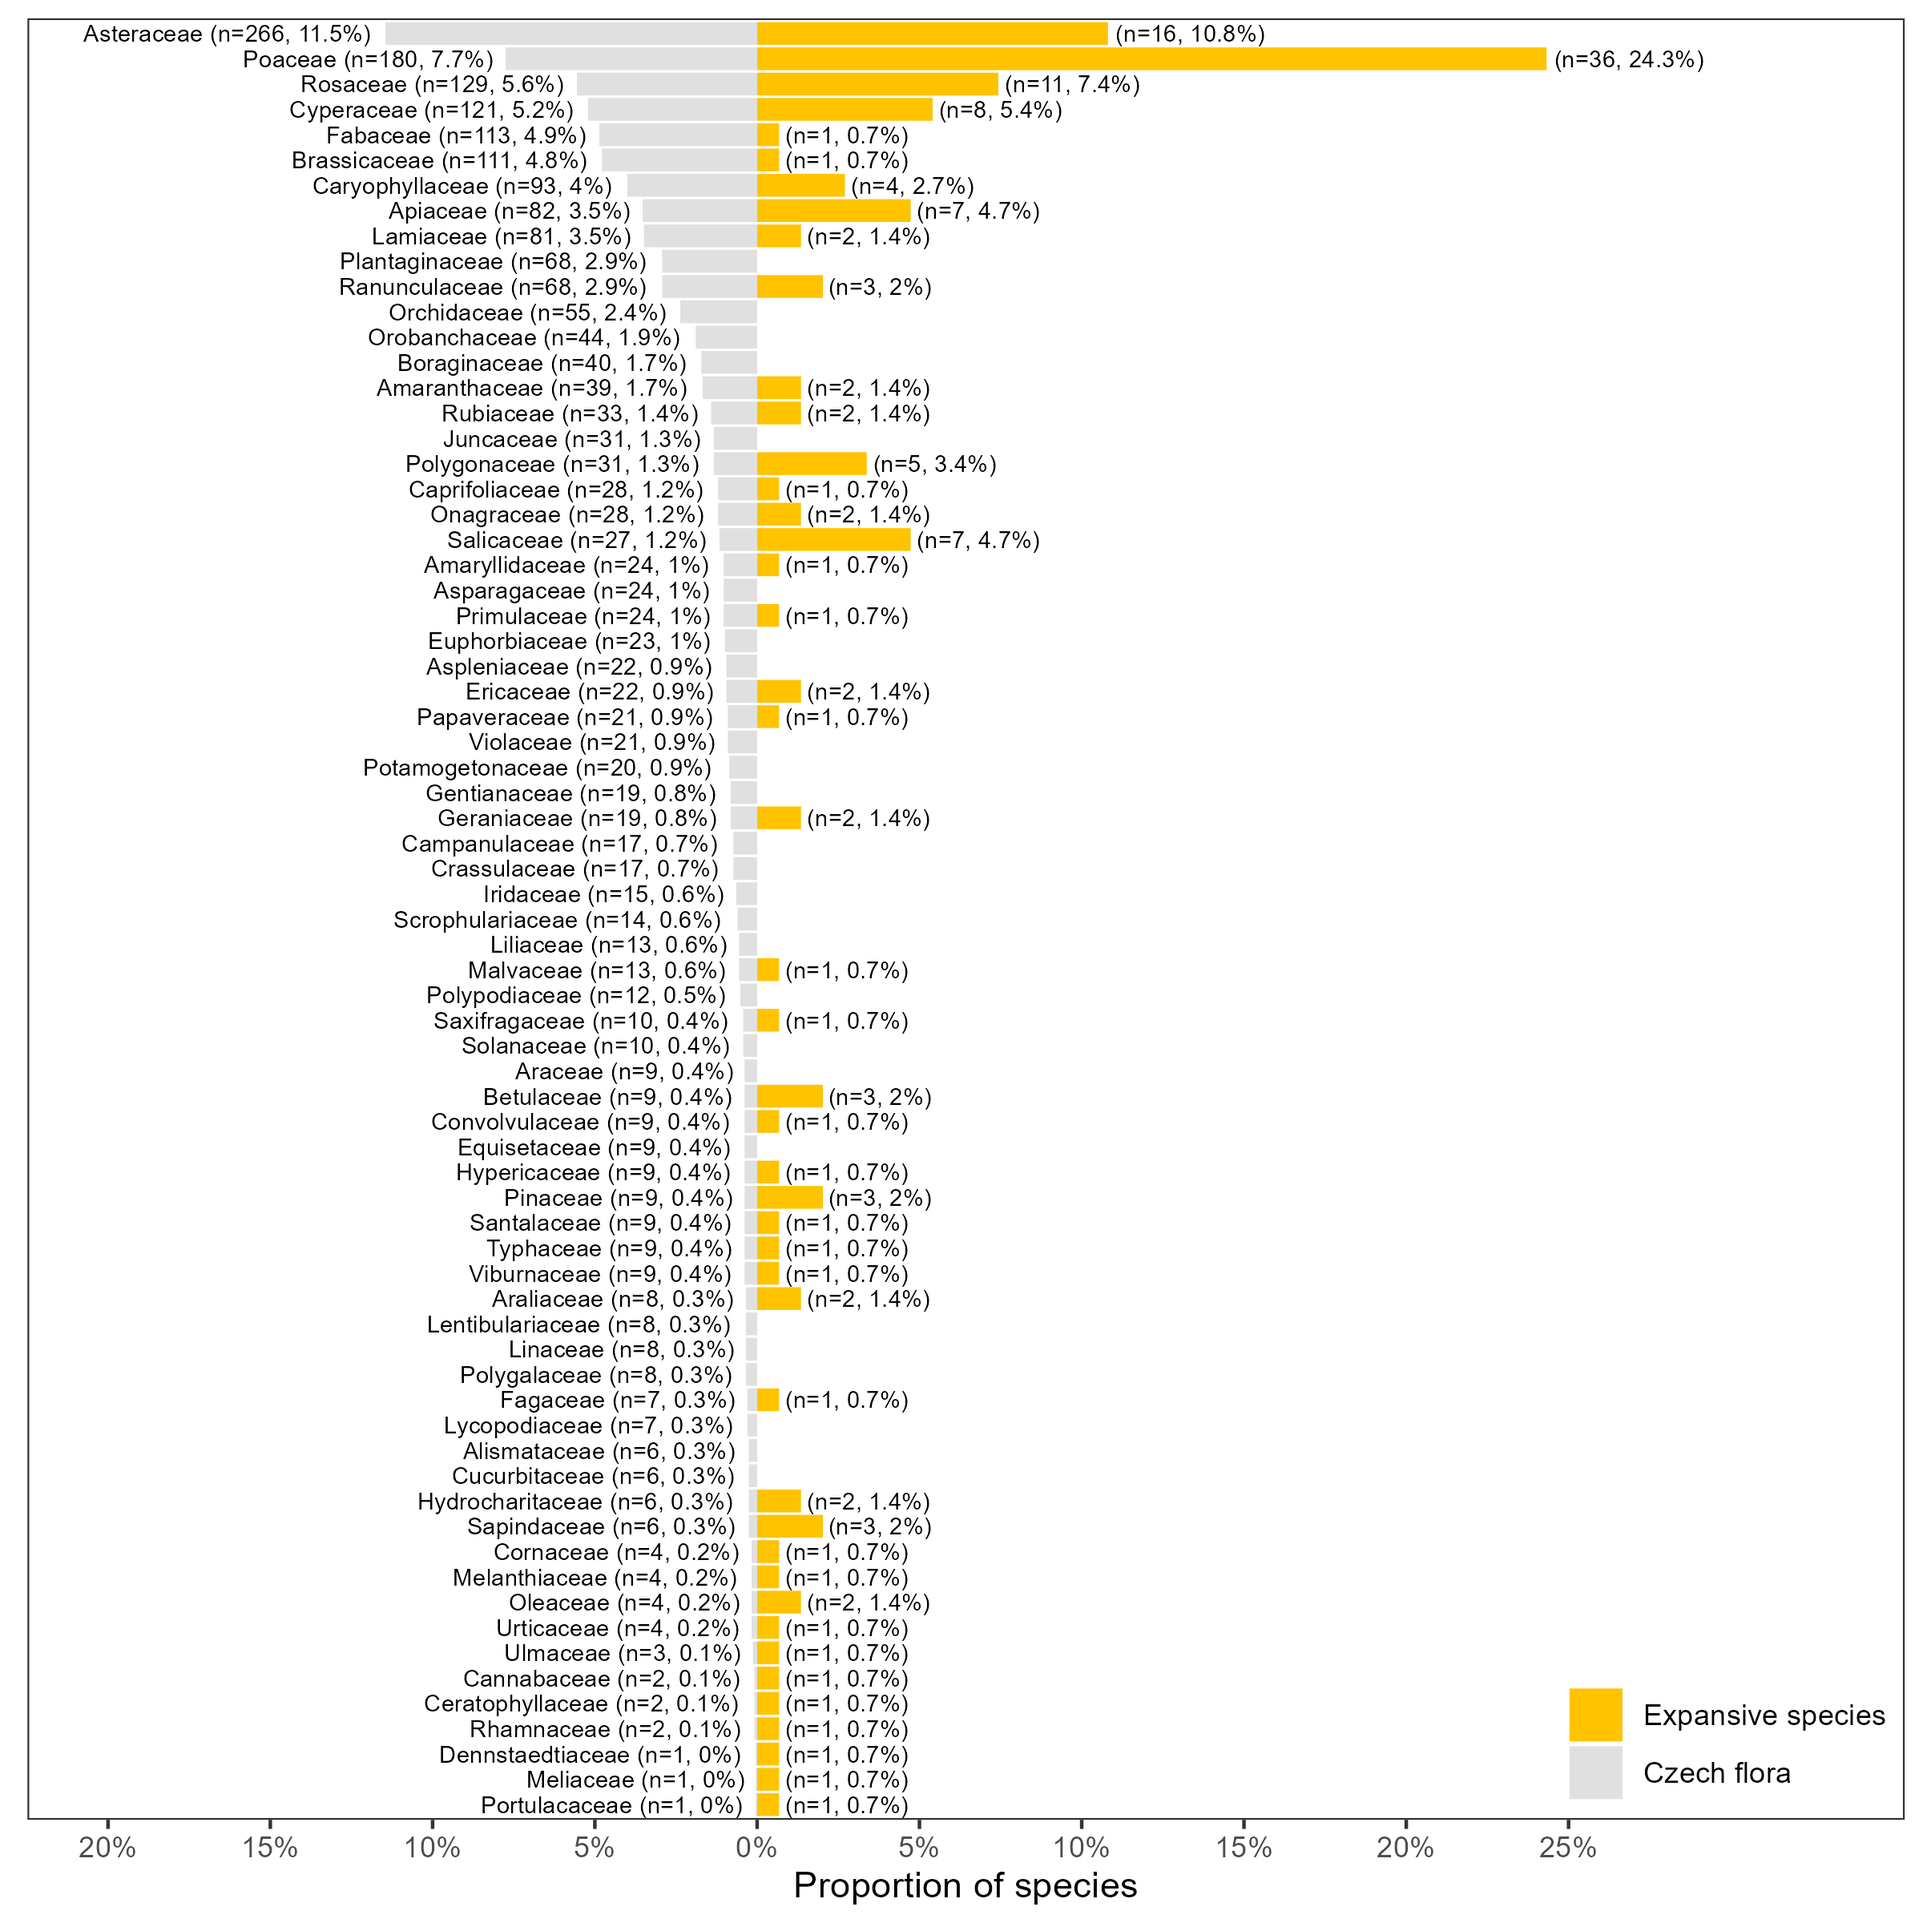
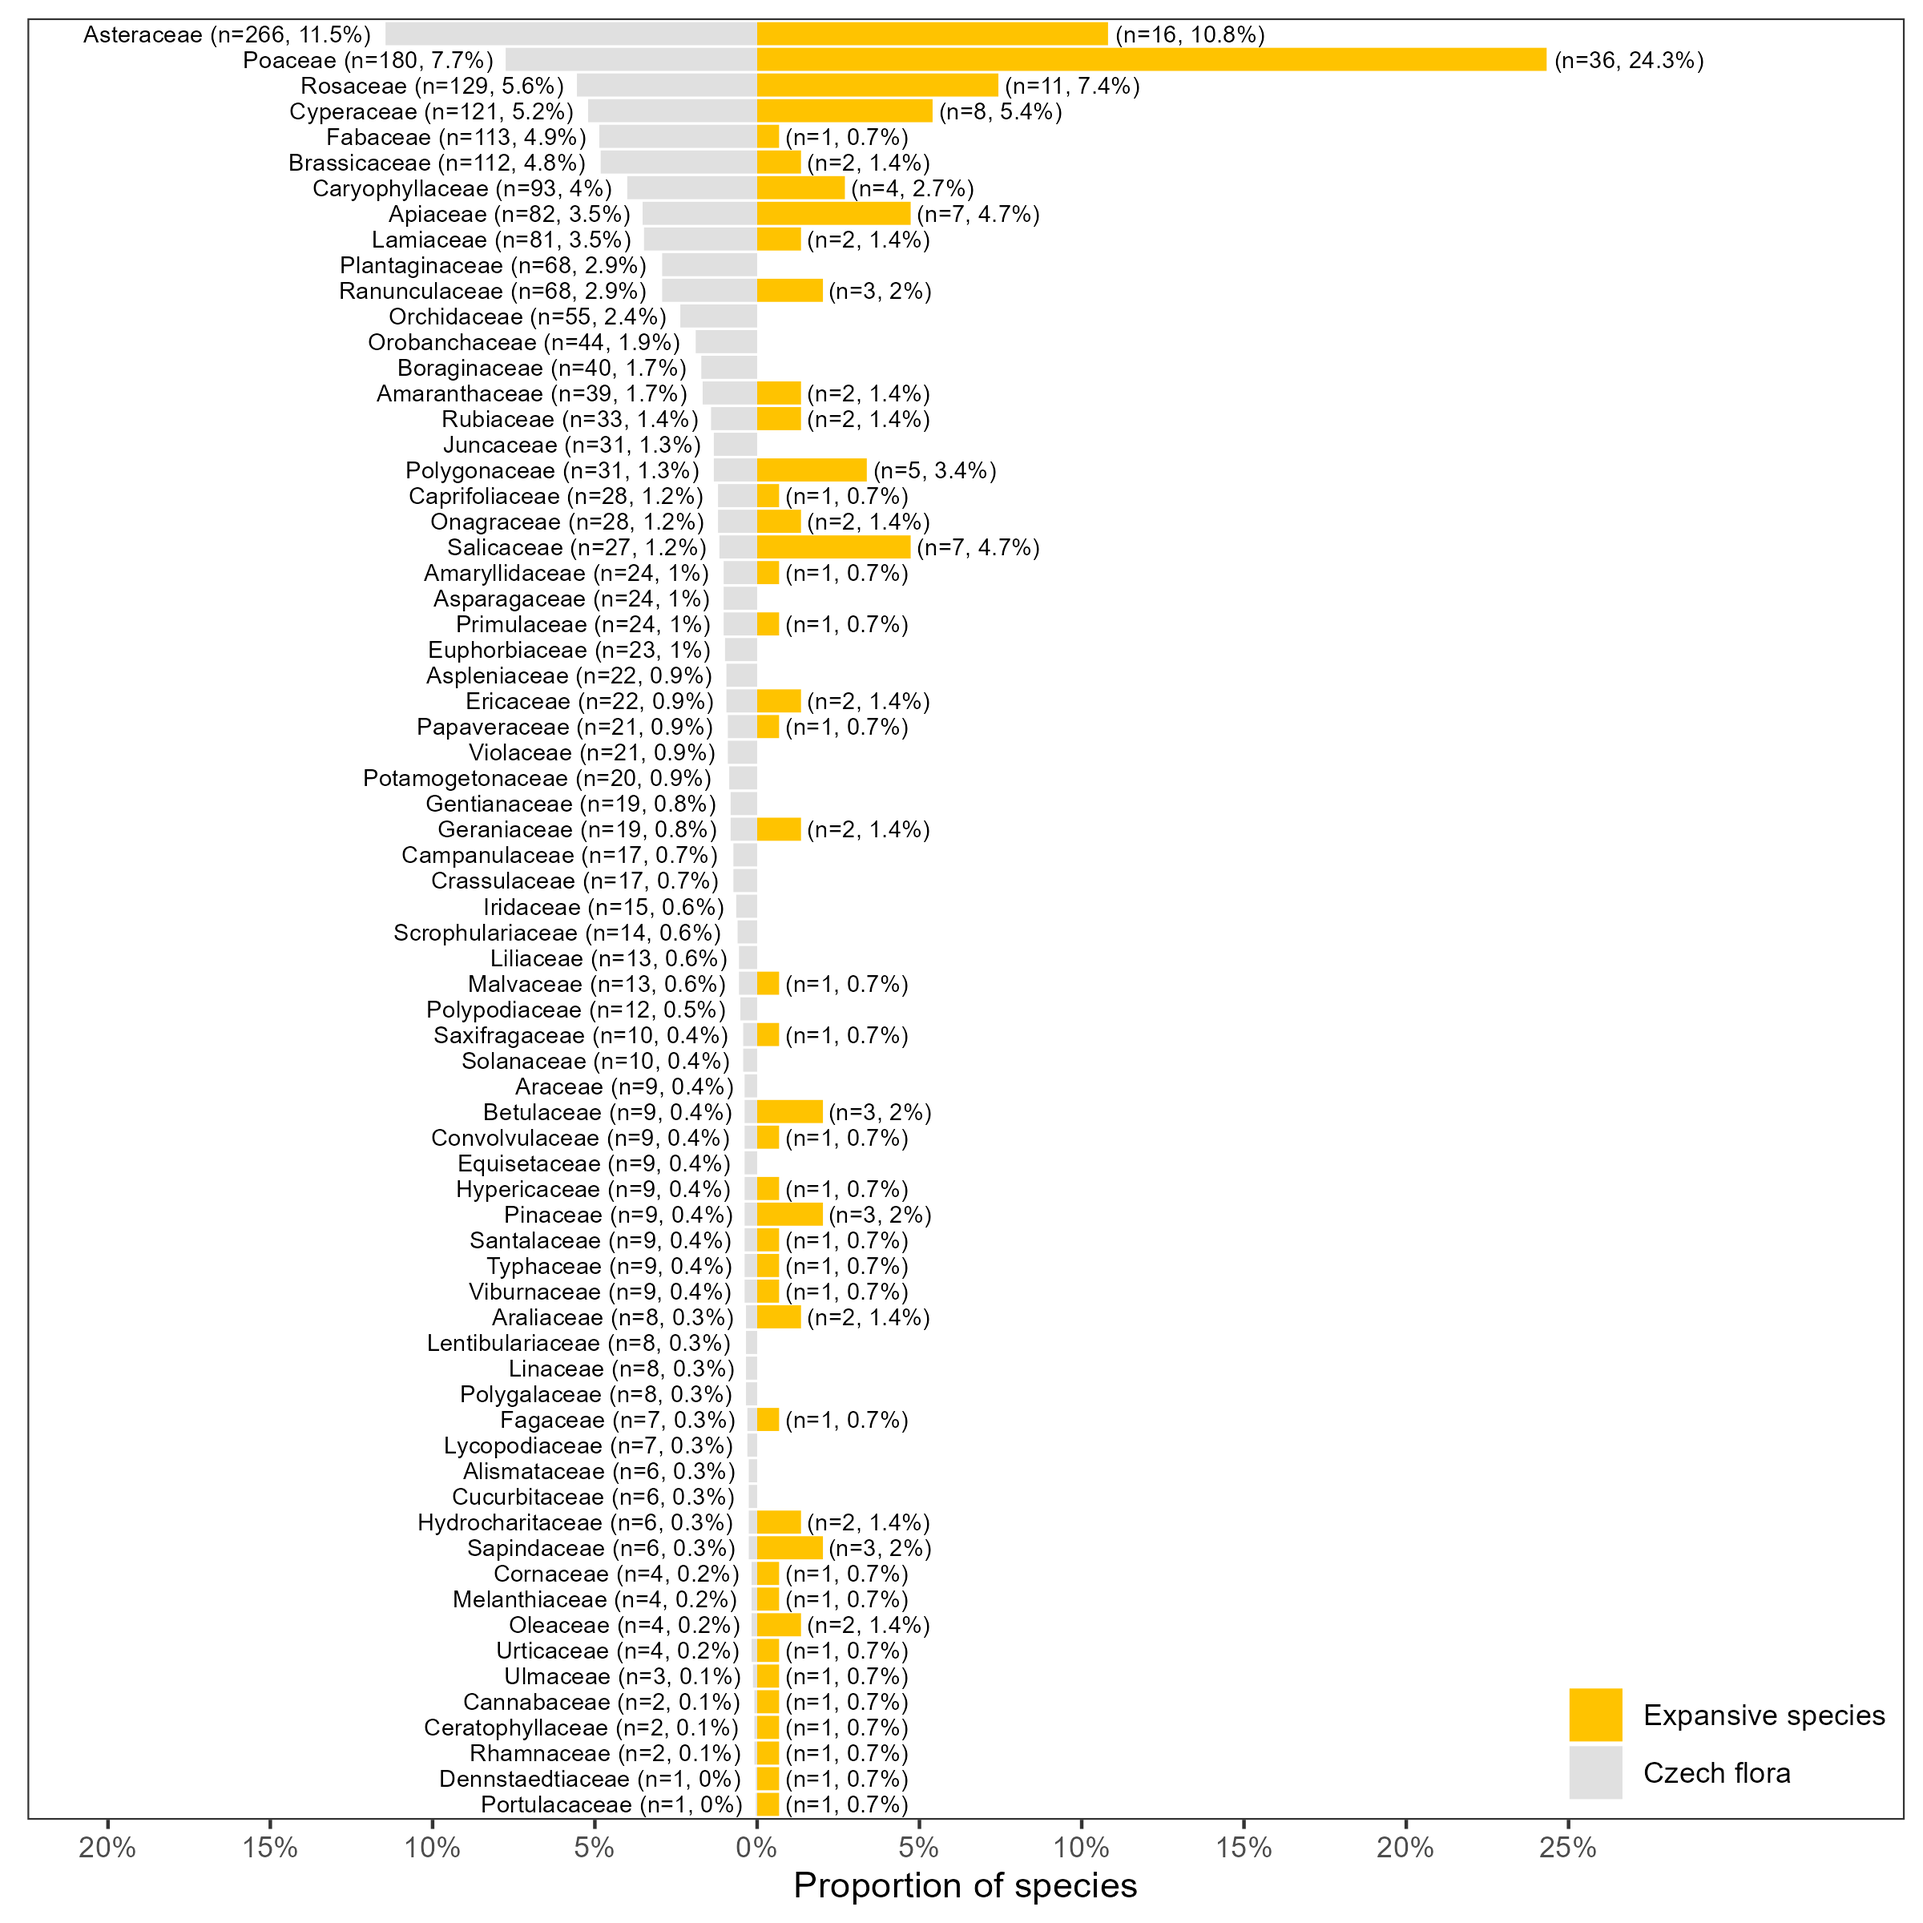
adding legend

Changed region(s): [[0.1562, 0.0312, 0.5938, 0.9375], [0.125, 0.0, 0.1562, 0.0312]]

diff --git a/README.md b/README.md
@@ -12,10 +12,28 @@
   * Proportion of individual lifeforms of expansive species vs all species in Czech flora.
   * All families included.
 
-* `New_maps.R`: creates `Expansive_plants.pdf`
-  * For Appendix, I suppose
-  * All species included
-
 * `Strategies.R`: creates `Strategies.png`
   * Boxplots of Pierce's indices
   * All families included.
+  * Tested T-test
+
+* `New_maps.R`: creates `Expansive_plants.pdf`
+  * For Appendix, I suppose
+  * All species included
+  * Add legend
+  * Remove page number
+
+* `Vegetative_height`: creates `...`
+  * Facets per individual growth-forms
+
+* `Fytoregiony.R`: creates `...`
+  * Counts per fytoregions
+  * Tested with Anova
+
+* `Dotaznik_counts.R`: creates `...`
+  * Map of frequency of questionnaires
+
+
+* `Habitats.R`: no fucking idea
+* :::::::: Tabulka s biotopama first
+* 
